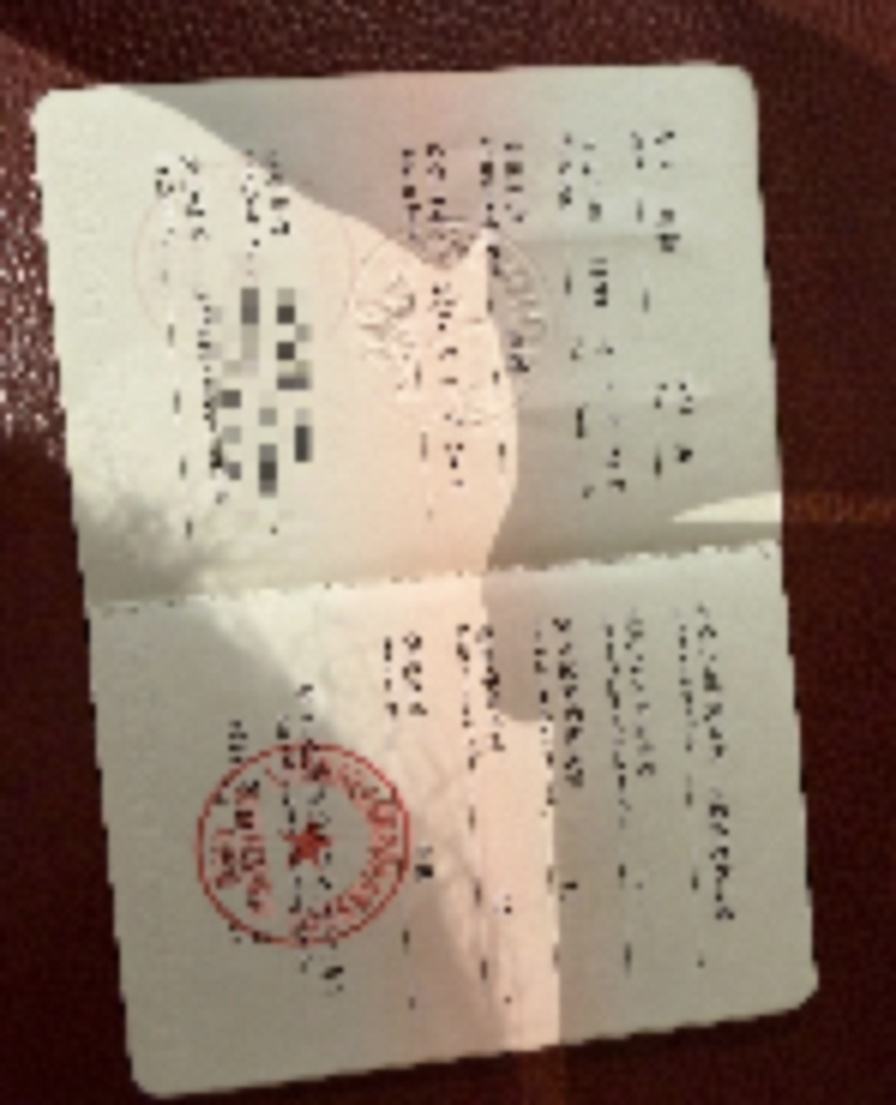
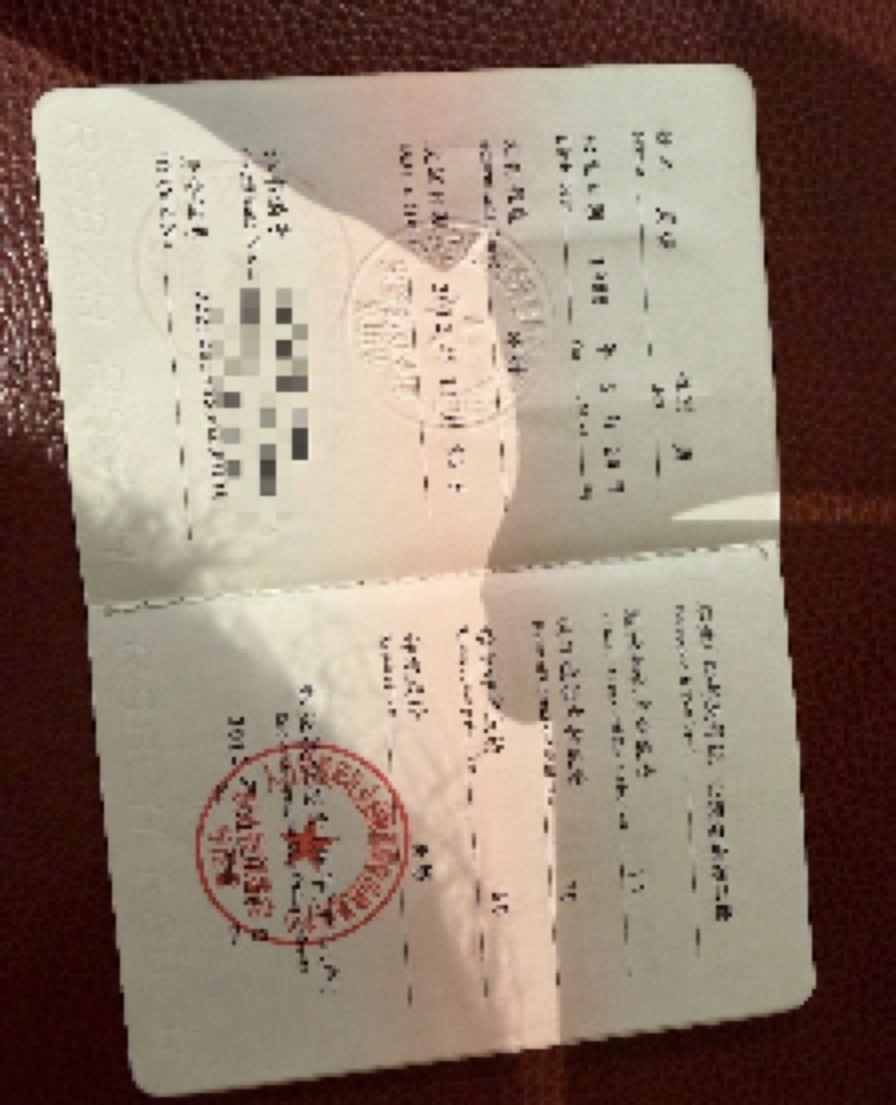
证书仅保留一张国家二级，打码调轻

diff --git a/index.html b/index.html
@@ -352,22 +352,9 @@
                     </div>
 
                     <h3 class="exp-column-title" style="margin-top: 2rem;">📜 资质证书</h3>
-                    <div class="cert-section" style="margin-top: 1rem;">
-                        <div style="display: flex; gap: 12px; flex-wrap: wrap; justify-content: center;">
-                            <div style="flex: 0 0 auto;">
-                                <img src="images/certificate.jpg" alt="国家二级心理咨询师证书" class="cert-image" style="height: 200px; width: auto; border-radius: var(--radius-sm); border: 1px solid var(--border); cursor: pointer;" onclick="openModal(this.src)">
-                                <p style="font-size: 0.78rem; text-align: center; margin-top: 4px; color: var(--text-light);">国家二级心理咨询师</p>
-                            </div>
-                            <div style="flex: 0 0 auto;">
-                                <img src="images/certificate2.jpg" alt="专业资质证书" class="cert-image" style="height: 200px; width: auto; border-radius: var(--radius-sm); border: 1px solid var(--border); cursor: pointer;" onclick="openModal(this.src)">
-                                <p style="font-size: 0.78rem; text-align: center; margin-top: 4px; color: var(--text-light);">专业资质证书</p>
-                            </div>
-                            <div style="flex: 0 0 auto;">
-                                <img src="images/certificate4.jpg" alt="专业培训证书" class="cert-image" style="height: 200px; width: auto; border-radius: var(--radius-sm); border: 1px solid var(--border); cursor: pointer;" onclick="openModal(this.src)">
-                                <p style="font-size: 0.78rem; text-align: center; margin-top: 4px; color: var(--text-light);">专业培训结业</p>
-                            </div>
-                        </div>
-                        <p style="font-size: 0.78rem; color: var(--text-muted); margin-top: 4px; text-align: center;">点击可放大查看 · 已做脱敏处理</p>
+                    <div class="cert-section" style="margin-top: 1rem; text-align: center;">
+                        <img src="images/certificate.jpg" alt="国家二级心理咨询师证书" class="cert-image" style="height: 240px; width: auto; border-radius: var(--radius-sm); border: 1px solid var(--border); cursor: pointer;" onclick="openModal(this.src)">
+                        <p style="font-size: 0.82rem; margin-top: 6px; color: var(--text-light);">国家二级心理咨询师 · 点击放大</p>
                     </div>
                 </div>
             </div>
